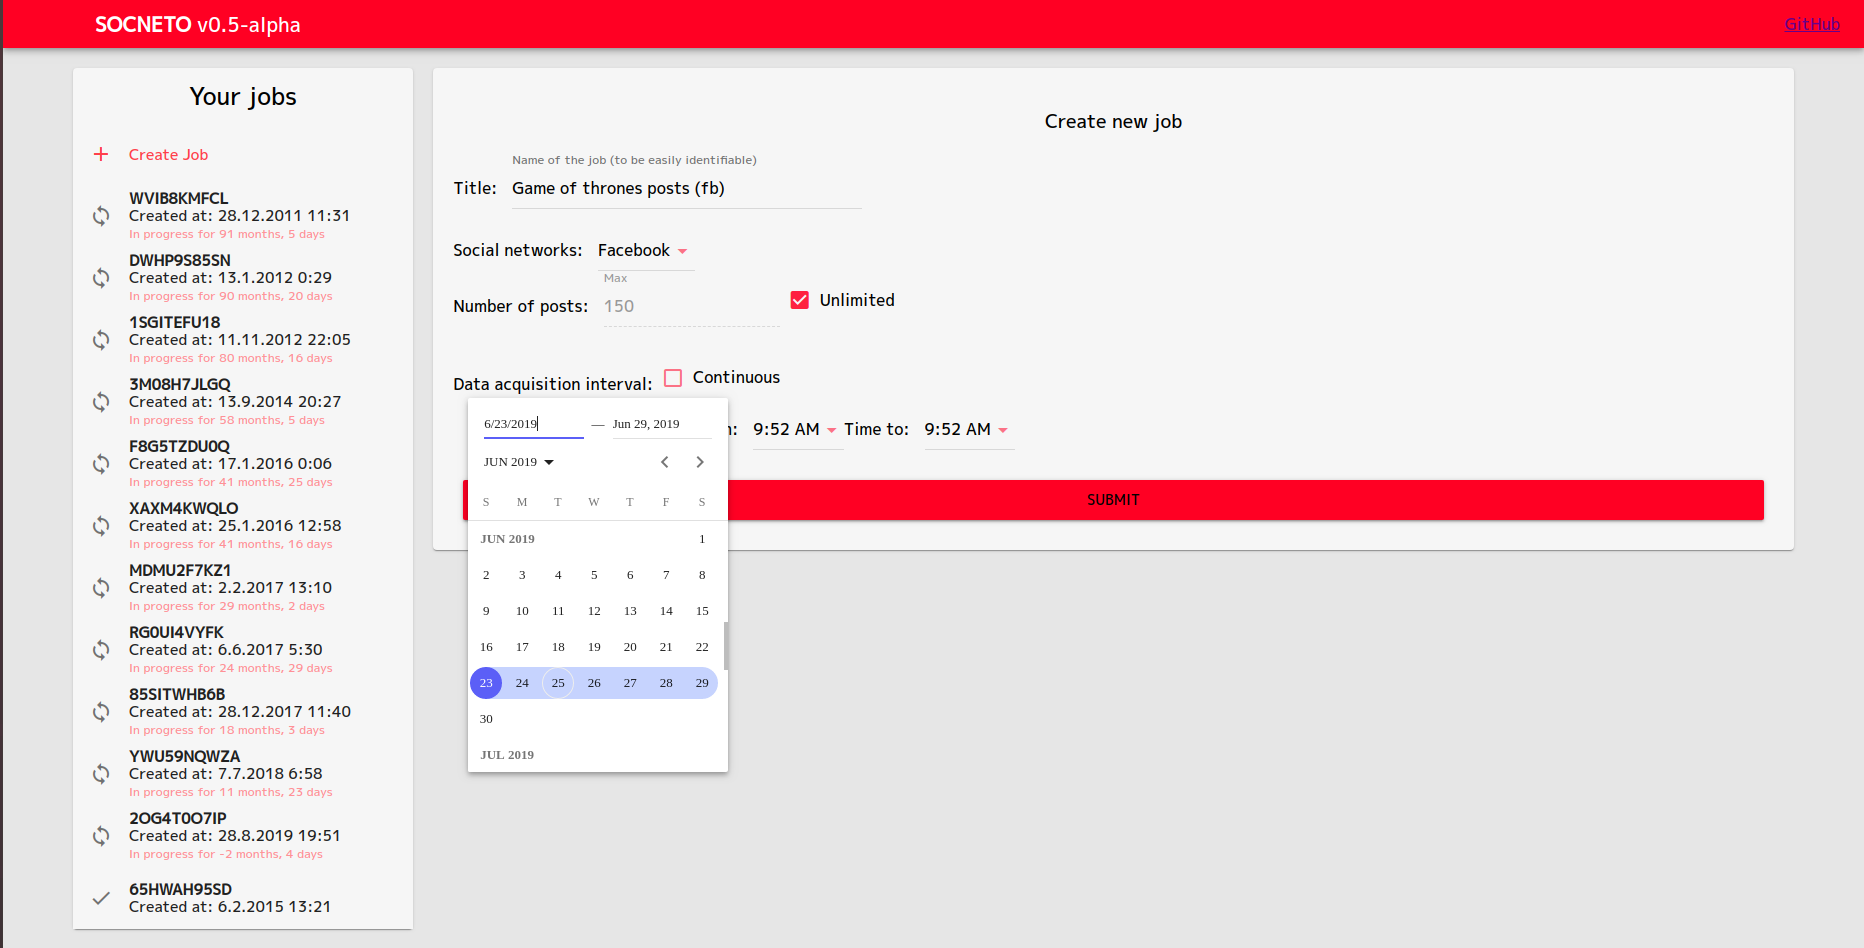
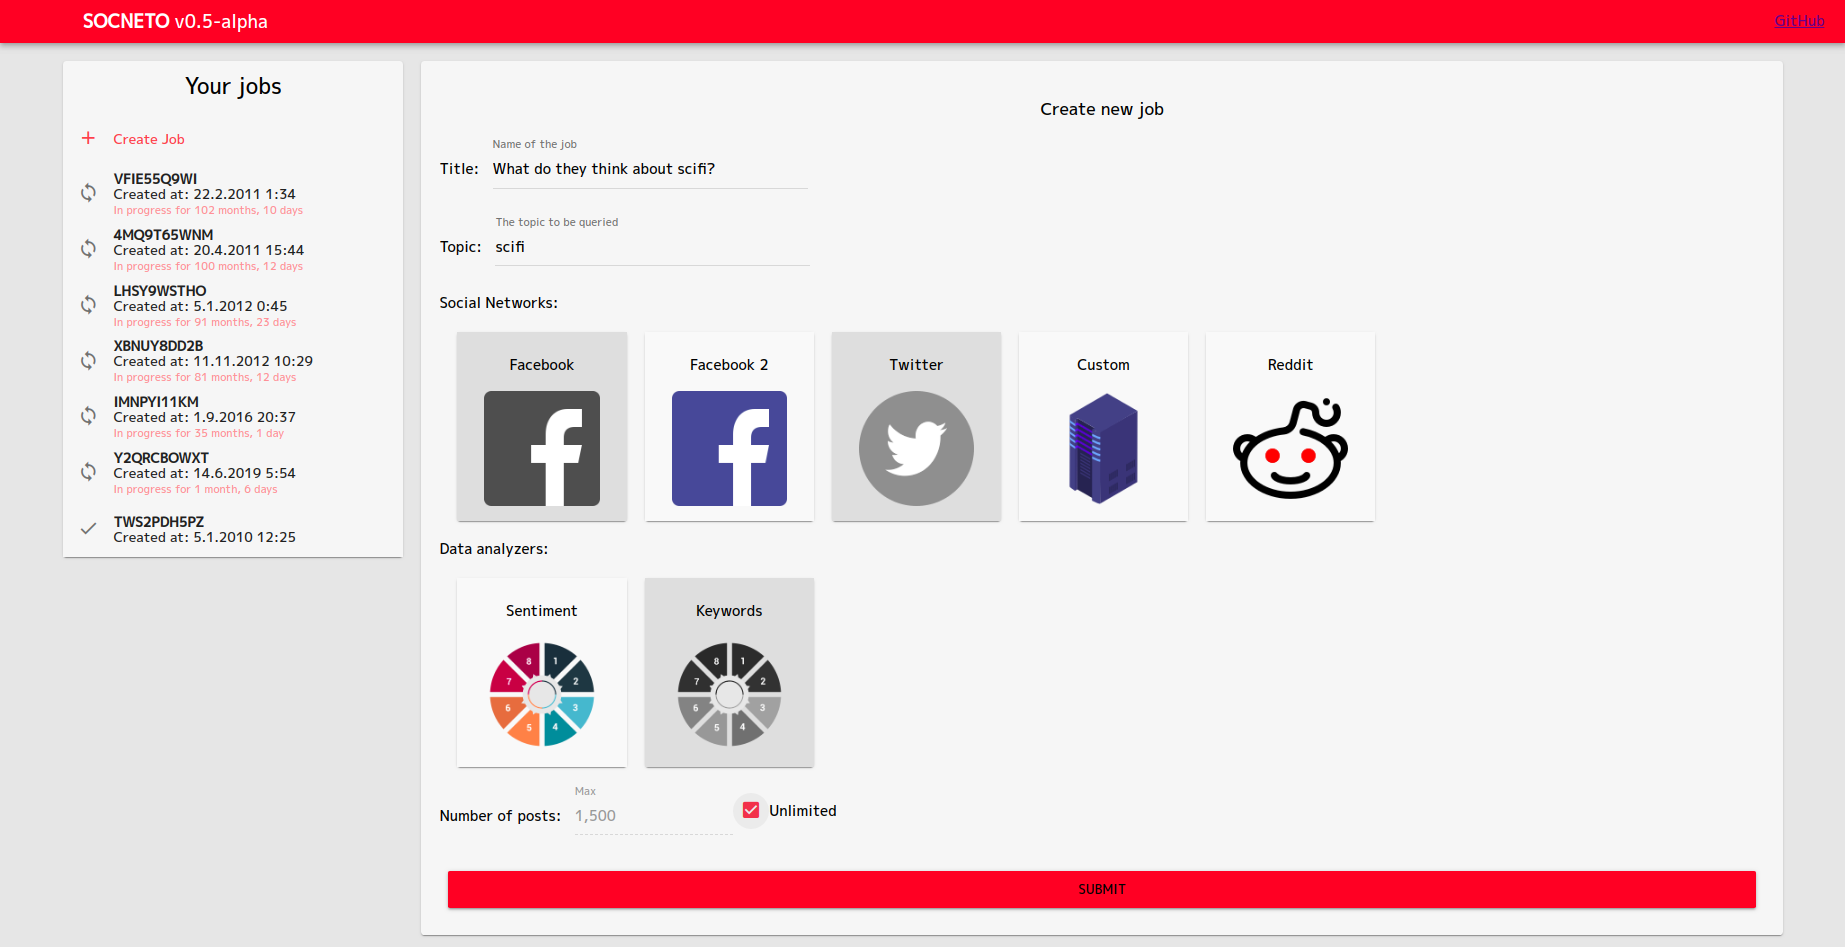
Specification - updated frontend specification

diff --git a/docs/Specification/FrontEnd.md b/docs/Specification/FrontEnd.md
@@ -1,42 +1,34 @@
 ## Frontend
 
-The primary purpose of our frontend is to provide a user with easily readable visualisations of the acquired and analyzed data. The application will also allow the user to specify and submit new jobs to the platform and will inform him about their progress. The last functionality allows administrators to manage and configure individual components of the whole platform.
+The primary purpose of our frontend is to provide a user a tool to configure and look at multiple different visualisations of the analyzed data. The application will also allow the user to specify and submit new jobs to the platform and will inform him about their progress. The last functionality allows administrators to manage and configure individual components of the whole platform.
 
 ### DartAngular + Material
-We chose to make the frontent as a *web application* to develop a cross-platform software which is as user friendly as possible (TODO: really???). We chose to use a modern and widely used style guidelines / library *Material Design* to quickly build nice and proffesional looking product. We stick with *DartAngular* because its library provides us with [angular components](https://dart-lang.github.io/angular_components/) which already use Material Design.
+We chose to make the frontent as a *web application* to develop a cross-platform software which is user friendly and easily available. We chose to use a modern and widely used style guidelines / library *Material Design* to quickly build nice and proffesional looking product. We stick with *DartAngular* because its library provides us with [angular components](https://dart-lang.github.io/angular_components/) which already use Material Design.
 
 ### Components
-Angular uses a component-based architecture, so in this section we provide description of the most important components.
+Angular uses a component-based architecture, so each page is composed of multiple components. In this section we provide a description of the views the user can encounter and the components they are made from.
 
 #### Login
-When a user opens the homepage for the first time, the login page is displayed. To use the application, he needs to sign in using a username and password. After inserting correct credentials, they are stored in (TODO: cookies or localstorage), and the user is redirected to his dashboard. Storing the credentials improves the UX because the user does not need to enter the credentials every time he opens the application. If, for any reason and at any time, user receives HTTP result *Forbidden* (HTTP code 403), he is immediatelly redirected to the login page and needs to enter the credentials again.
-![Login page](https://github.com/jan-pavlovsky/SWProject/blob/dev/docs/Specification/images/fe_login.png)
+As mentioned in the API section, the backend requires the user to be authorized for most requests. Therefore the user needs to login before he starts using the application. After signing in with correct combination of username and password, the user is redirected to his dashboard. The credentials are also stored in localstorage, so the user does not need to insert them on each page reload. 
+
+If a user tries to access content to which he is not authorized (receives HTTP result with status code *401*), he is immediatelly redirected to special page, where he is informed about it. From there, he can try visit different content or sign in again.
+![Login page](./images/fe_login.png)
 
 #### Dashboard
-The Dashboard primarilly displays history of all jobs the user ever submitted including a simple informations about them. Both *finished* and *in progress* jobs are displayed here. After selecting a specific job, more details of the job are shown. This component also contains a button for submiting a new job.
-![Dashboard](https://github.com/jan-pavlovsky/SWProject/blob/dev/docs/Specification/images/fe_dashboard.png)
-
+The Dashboard displays history of all jobs the user ever submitted including a simple information about them (name, submission date). After selecting a specific job, a component with more details about the job and data visualisations are shown. The list of jobs also contains a button which shows component for submitting a new job.
+![Dashboard](./images/fe_dashboard.png)
 
 #### New job
-This component aims to easy, user-friendly ability to submit a new job. We use Material input components to provide the user with the best UX.
-![Submit new job](https://github.com/jan-pavlovsky/SWProject/blob/dev/docs/Specification/images/fe_submit.png)
+This component aims to easy, user-friendly ability to submit a new job. We use Material input components to provide the user with the best UX. The user can specify *name* of the job, *topic* to be searched for, which registered SOCNETO *components* to use (analyzers and data acquirers) and number of posts to fetch, or unlimited.
+![Submit new job](./images/fe_submit.png)
 
 #### Job detail
-The job detail component contains multiple visualisations of the analyzed data of the job. If the analysis is not complete yet, it contains the data, which is already analysed together with the percentage of how much data is processed. The individual visualisations are split into multiple tabs.
+The job detail component contains list of user specified visualisations of the analyzed data. It also contains a paginated list of all acquired posts and their analyses.
 
-The first tab shows a linechart of keyword sentiments of analysed posts. Each line represents one keyword. The y-axis displays the keyword's sentiment, and the x-axis shows date. In addition, the user can specify, which keywords he wants to see in the chart. By default it displays the most used keywords in the job's dataset, but the user can remove or add any other keyword apearing in the dataset.
-![Job linechart](https://github.com/jan-pavlovsky/SWProject/blob/dev/docs/Specification/images/fe_job_linechart.png)
+At first, the component contains no visualisations. The user has to specify which data from the analyses he wants to be visualized. This approach gives the user a great degree of freedom instead of being presented by hardwired charts. When creating a new chart, the user only has to select the type of chart (pie chart, line chart, ... TODO: which types we want to support?), and write a JSONPath to the attrribute to be visualised (see Analyser output part). These definitions of charts are then stored in our storage, so the user does not need to create them each time.
 
-The second tab contains a paginated list of all analyzed posts / comments / tweets from the job's dataset. In addition to the original data (post's text), it contains list of extracted keywords, and sentiment of  the post.
-![Job posts](https://github.com/jan-pavlovsky/SWProject/blob/dev/docs/Specification/images/fe_job_posts.png)
-
-To not break any privacy policies, we are displaying only publicly available data (plus our analysis). 
-
+TODO: screen maybe (list of visualisations, new visualisation, list of posts)
 
 #### Admin
-Only users with admin privileges are able to access this component. It serves to make the user able to add, remove or configure some components of the SOCNETO platform. TODO: how?
-
---------------------------------------------
-
-The user can filter data by given time interval.
-
+TODO: write more here (how to access it, how does it work?)
+Only users with admin privileges are able to access this component. It serves to make the user able to add, remove or configure data analyzer and data acquirer components.

diff --git a/docs/Specification/readme.md b/docs/Specification/readme.md
@@ -228,8 +228,41 @@ What is backend and what it offers (conceptually)
 
 ### Front end 
 
-What will be user able to do and see in the program
-**TODO Július**
+## Frontend
+
+The primary purpose of our frontend is to provide a user a tool to configure and look at multiple different visualisations of the analyzed data. The application will also allow the user to specify and submit new jobs to the platform and will inform him about their progress. The last functionality allows administrators to manage and configure individual components of the whole platform.
+
+### DartAngular + Material
+We chose to make the frontent as a *web application* to develop a cross-platform software which is user friendly and easily available. We chose to use a modern and widely used style guidelines / library *Material Design* to quickly build nice and proffesional looking product. We stick with *DartAngular* because its library provides us with [angular components](https://dart-lang.github.io/angular_components/) which already use Material Design.
+
+### Components
+Angular uses a component-based architecture, so each page is composed of multiple components. In this section we provide a description of the views the user can encounter and the components they are made from.
+
+#### Login
+As mentioned in the API section, the backend requires the user to be authorized for most requests. Therefore the user needs to login before he starts using the application. After signing in with correct combination of username and password, the user is redirected to his dashboard. The credentials are also stored in localstorage, so the user does not need to insert them on each page reload. 
+
+If a user tries to access content to which he is not authorized (receives HTTP result with status code *401*), he is immediatelly redirected to special page, where he is informed about it. From there, he can try visit different content or sign in again.
+![Login page](./images/fe_login.png)
+
+#### Dashboard
+The Dashboard displays history of all jobs the user ever submitted including a simple information about them (name, submission date). After selecting a specific job, a component with more details about the job and data visualisations are shown. The list of jobs also contains a button which shows component for submitting a new job.
+![Dashboard](./images/fe_dashboard.png)
+
+#### New job
+This component aims to easy, user-friendly ability to submit a new job. We use Material input components to provide the user with the best UX. The user can specify *name* of the job, *topic* to be searched for, which registered SOCNETO *components* to use (analyzers and data acquirers) and number of posts to fetch, or unlimited.
+![Submit new job](./images/fe_submit.png)
+
+#### Job detail
+The job detail component contains list of user specified visualisations of the analyzed data. It also contains a paginated list of all acquired posts and their analyses.
+
+At first, the component contains no visualisations. The user has to specify which data from the analyses he wants to be visualized. This approach gives the user a great degree of freedom instead of being presented by hardwired charts. When creating a new chart, the user only has to select the type of chart (pie chart, line chart, ... TODO: which types we want to support?), and write a JSONPath to the attrribute to be visualised (see Analyser output part). These definitions of charts are then stored in our storage, so the user does not need to create them each time.
+
+TODO: screen maybe (list of visualisations, new visualisation, list of posts)
+
+#### Admin
+TODO: write more here (how to access it, how does it work?)
+Only users with admin privileges are able to access this component. It serves to make the user able to add, remove or configure data analyzer and data acquirer components.
+
 
 ### Features
 
